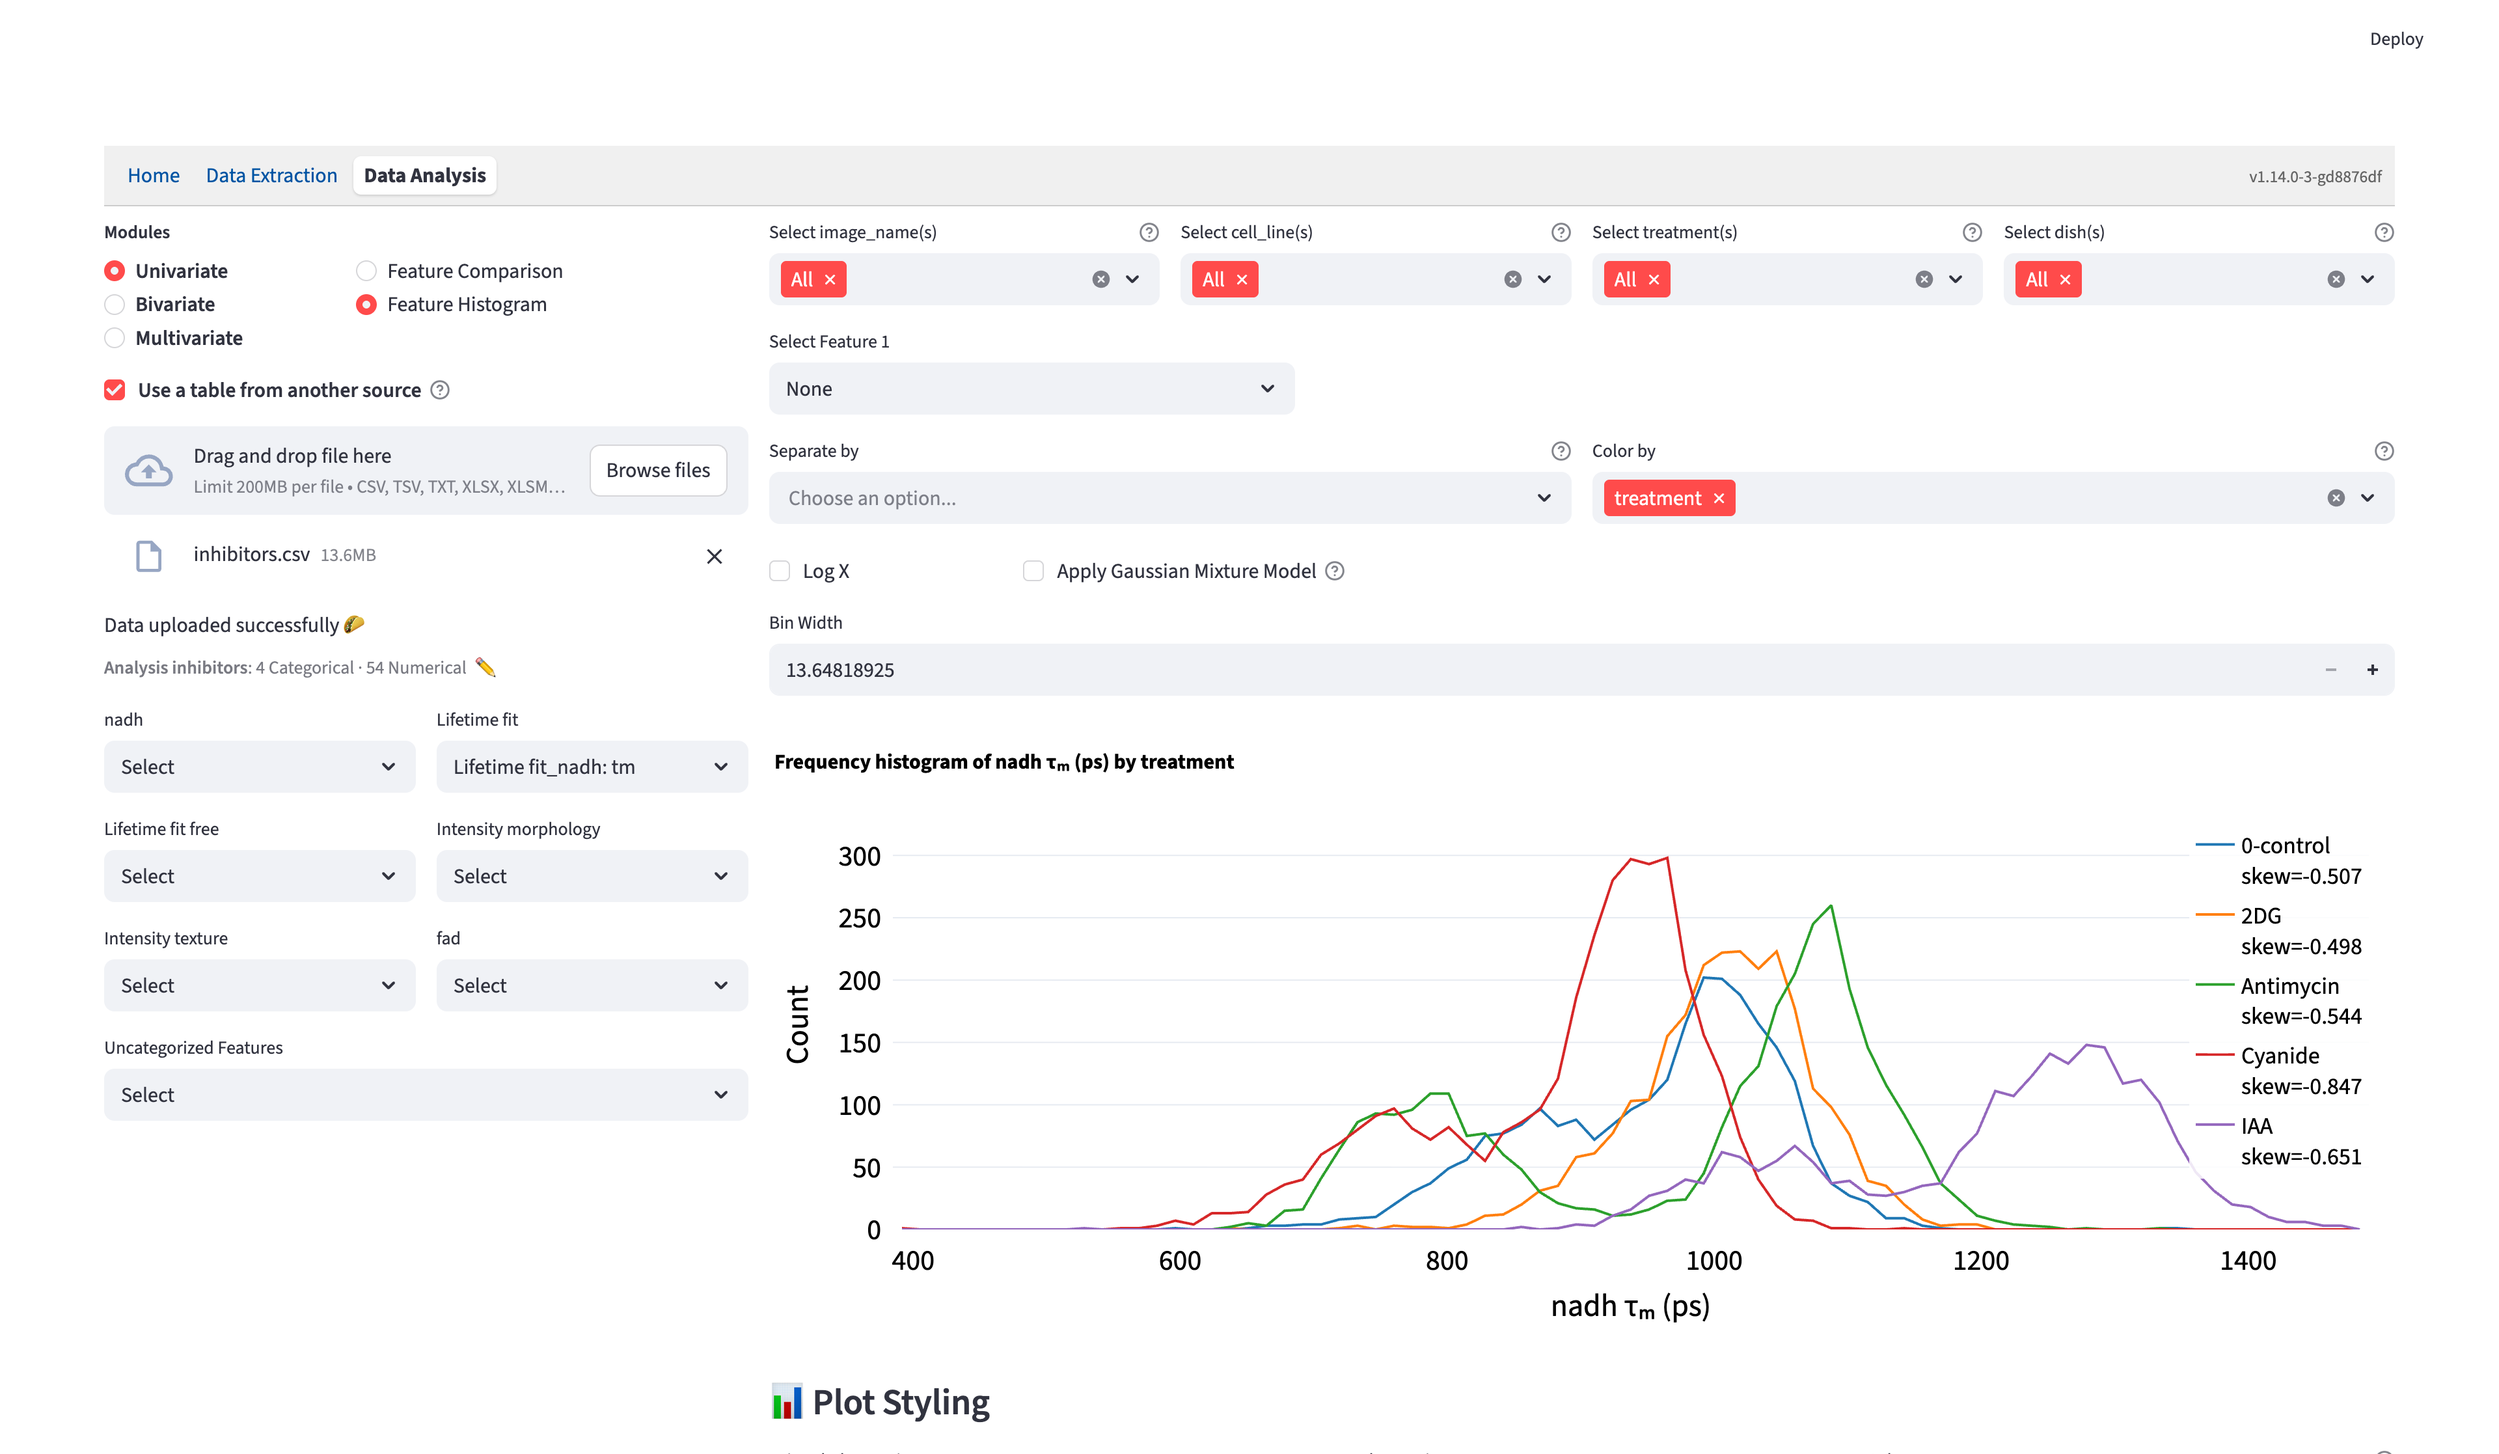
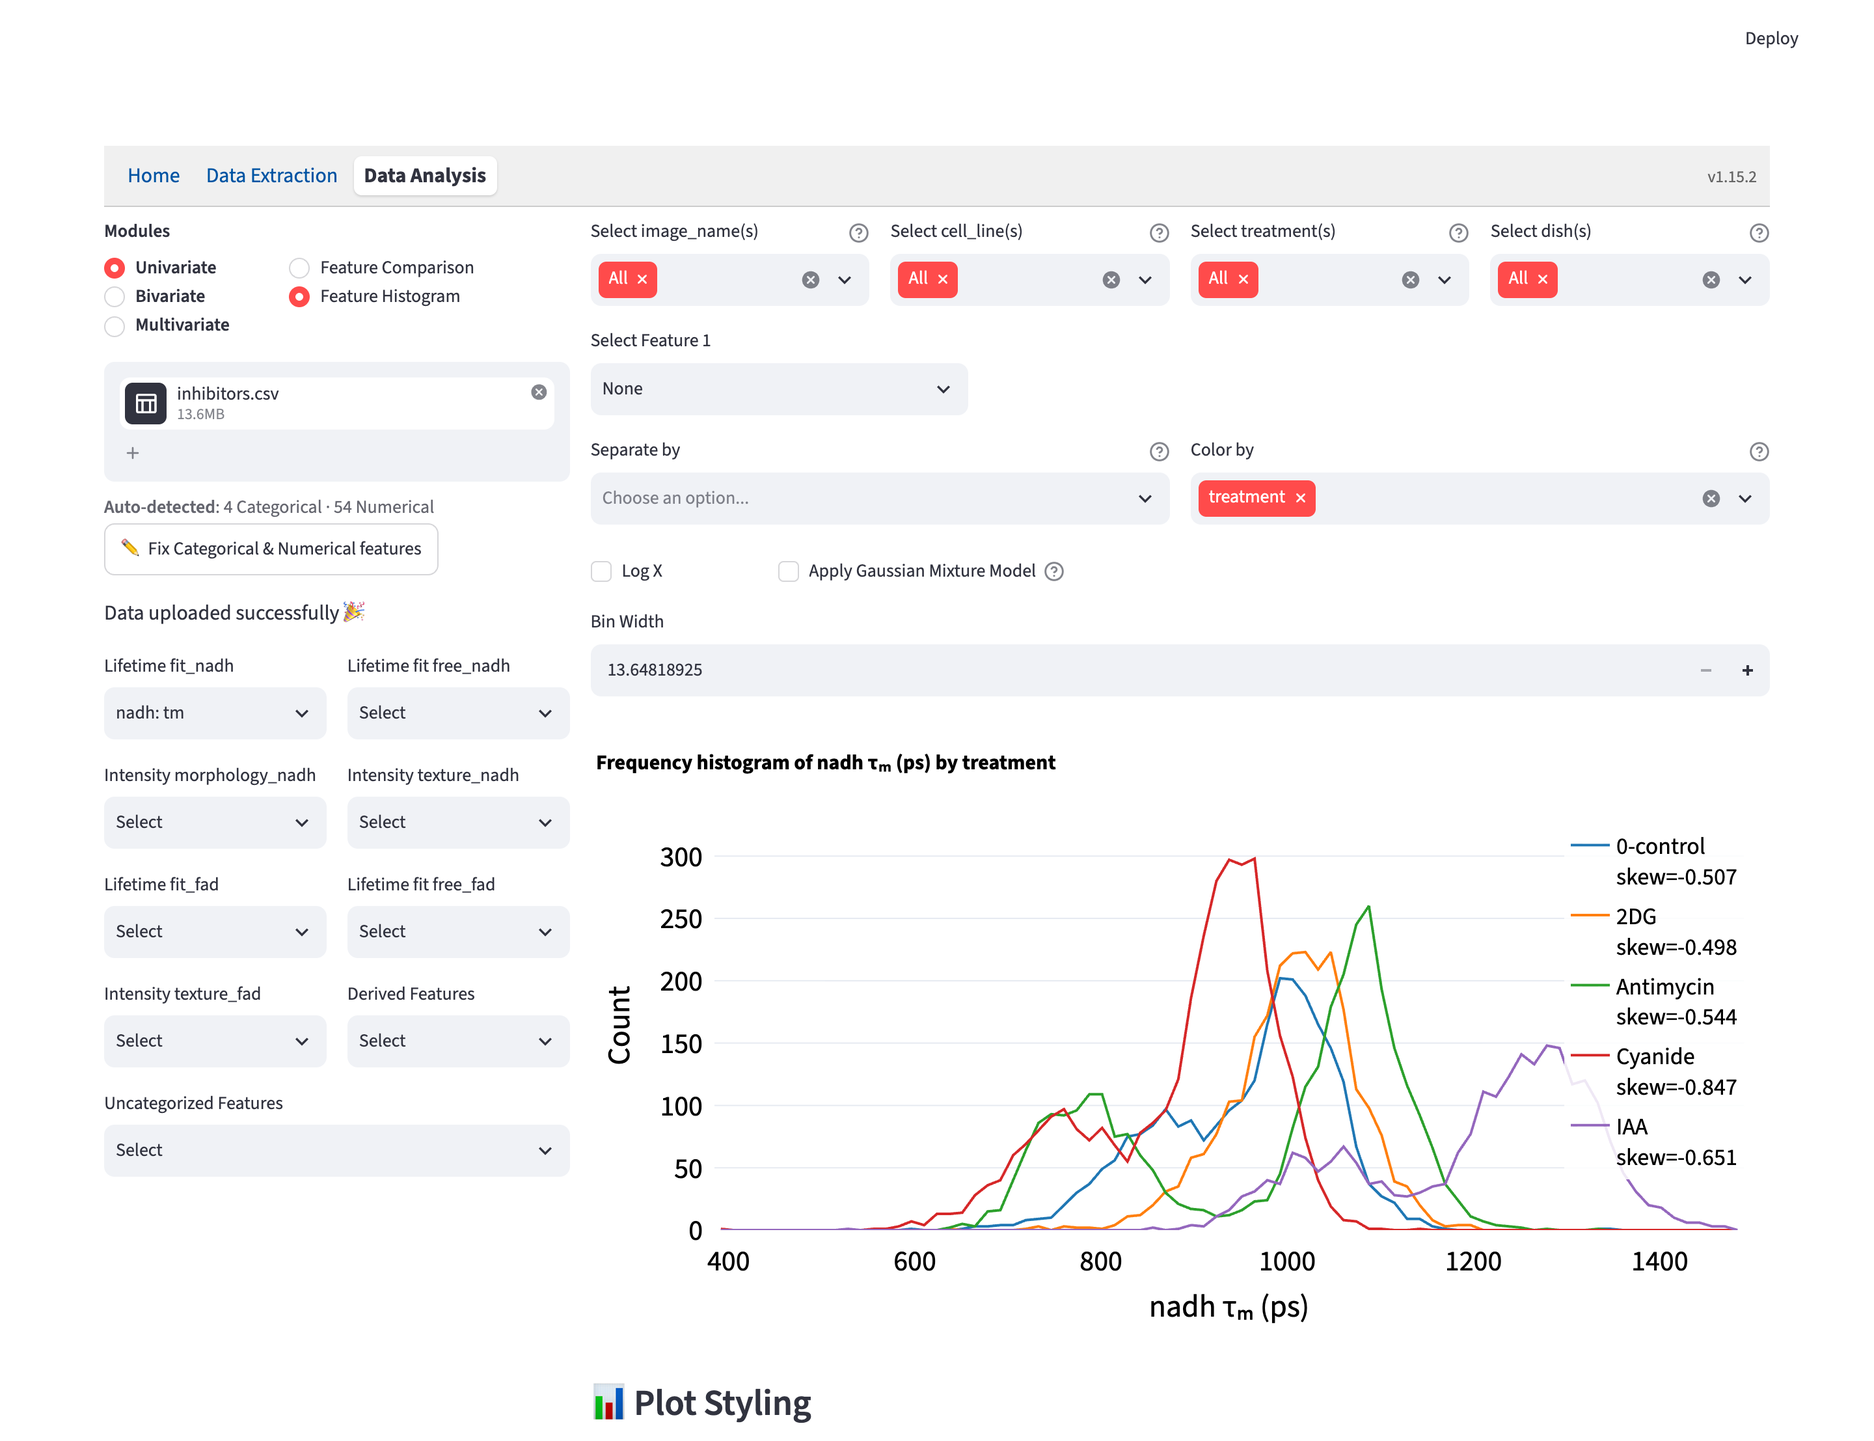
update docs

diff --git a/analysis_ui_shots/README.md b/analysis_ui_shots/README.md
@@ -1,6 +1,6 @@
 # Data analysis screenshots
 
-The 2026-09-18 refresh replaced 21 screenshots; the remaining UI captures are retained from 2026-09-09. The refreshed views show the current table-source checkbox and MHz phasor controls. The 2D separation plot was refreshed on 2026-09-20 from the current exported facet layout, including a promoted panel and the **Main plot** marker.
+The 2026-09-18 refresh replaced 21 screenshots; the remaining UI captures are retained from 2026-09-09. The refreshed views show the MHz phasor controls. The 2D separation plot was refreshed on 2026-09-20 from the current exported facet layout, including a promoted panel and the **Main plot** marker. On 2026-10-22, the grouping views were refreshed and `config_group_edit.png` added for the column editor's bulk bar, and the five full-page overviews (`feature_comparison`, `feature_histogram`, `phasor_analysis`, `dimension_reduction`, `classification`) were recaptured in a 1440 px window without the removed table-source checkbox. On 2026-10-26 (v1.15.2), the linked column-editor views and the five overviews were recaptured for the editor that now opens on upload, and `config_review.png` and `config_doubts.png` (from the sample `wine_quality.csv`) were added. The `config_*_full.png` companions, `config_upload.png`, `config_save.png`, and `config_manage.png` predate this layout; no page links them.
 
 Keep analysis UI screenshots in this folder, using stable lowercase `snake_case.png` filenames. Refresh existing views in place, preserving their dimensions and conceptual content. Use `_full.png` for the full viewport companion to a focused crop. Standalone overview captures retain their established descriptive names, such as `feature_comparison.png` and `classification.png`. Link to assets using repository-relative paths and list them below; temporary capture files belong outside the documentation assets.
 
@@ -12,10 +12,13 @@ The configuration walkthrough uses [iris.csv](iris.csv). The scientific figures 
 |---|---|
 | 01 upload detail | [config_upload.png](config_upload.png) |
 | 01 upload full | [config_upload_full.png](config_upload_full.png) |
+| 01 editor on upload | [config_review.png](config_review.png) |
 | 02 review detail | [config_columns.png](config_columns.png) |
 | 02 review full | [config_columns_full.png](config_columns_full.png) |
+| 02 flagged guesses | [config_doubts.png](config_doubts.png) |
 | 03 grouping detail | [config_num_group.png](config_num_group.png) |
 | 03 grouping full | [config_num_group_full.png](config_num_group_full.png) |
+| 03 group edit detail | [config_group_edit.png](config_group_edit.png) |
 | 04 save detail | [config_save.png](config_save.png) |
 | 04 save full | [config_save_full.png](config_save_full.png) |
 | 05 applied detail | [config_applied.png](config_applied.png) |
